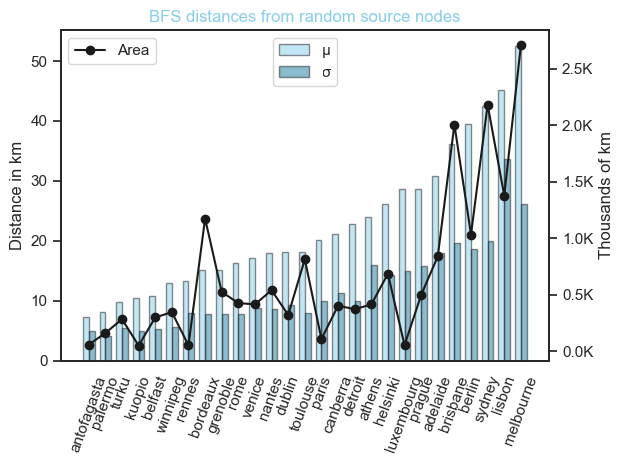
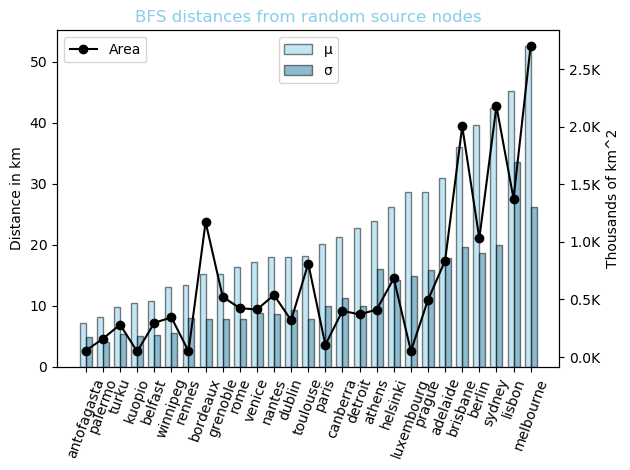
fixed distance plots

Changed region(s): [[0.0, 0.0, 1.0, 0.9957]]

diff --git a/network_functions.py b/network_functions.py
@@ -1124,7 +1124,7 @@ def plot_bars_mu_st(labels, mus, sts, ylabel, title=None, type=3, feature=None, 
         elif feature_label == 'Area':
             y1_labels = ['{}'.format(round(i, 1)) + 'K' for i in ax1.get_yticks() / 10 ** 3]
             ax1.set_yticklabels(y1_labels)
-            ax1.set_ylabel('Thousands of km')
+            ax1.set_ylabel('Thousands of km^2')
         ax1.legend(loc=2)
 
     ax.legend(loc=9)
